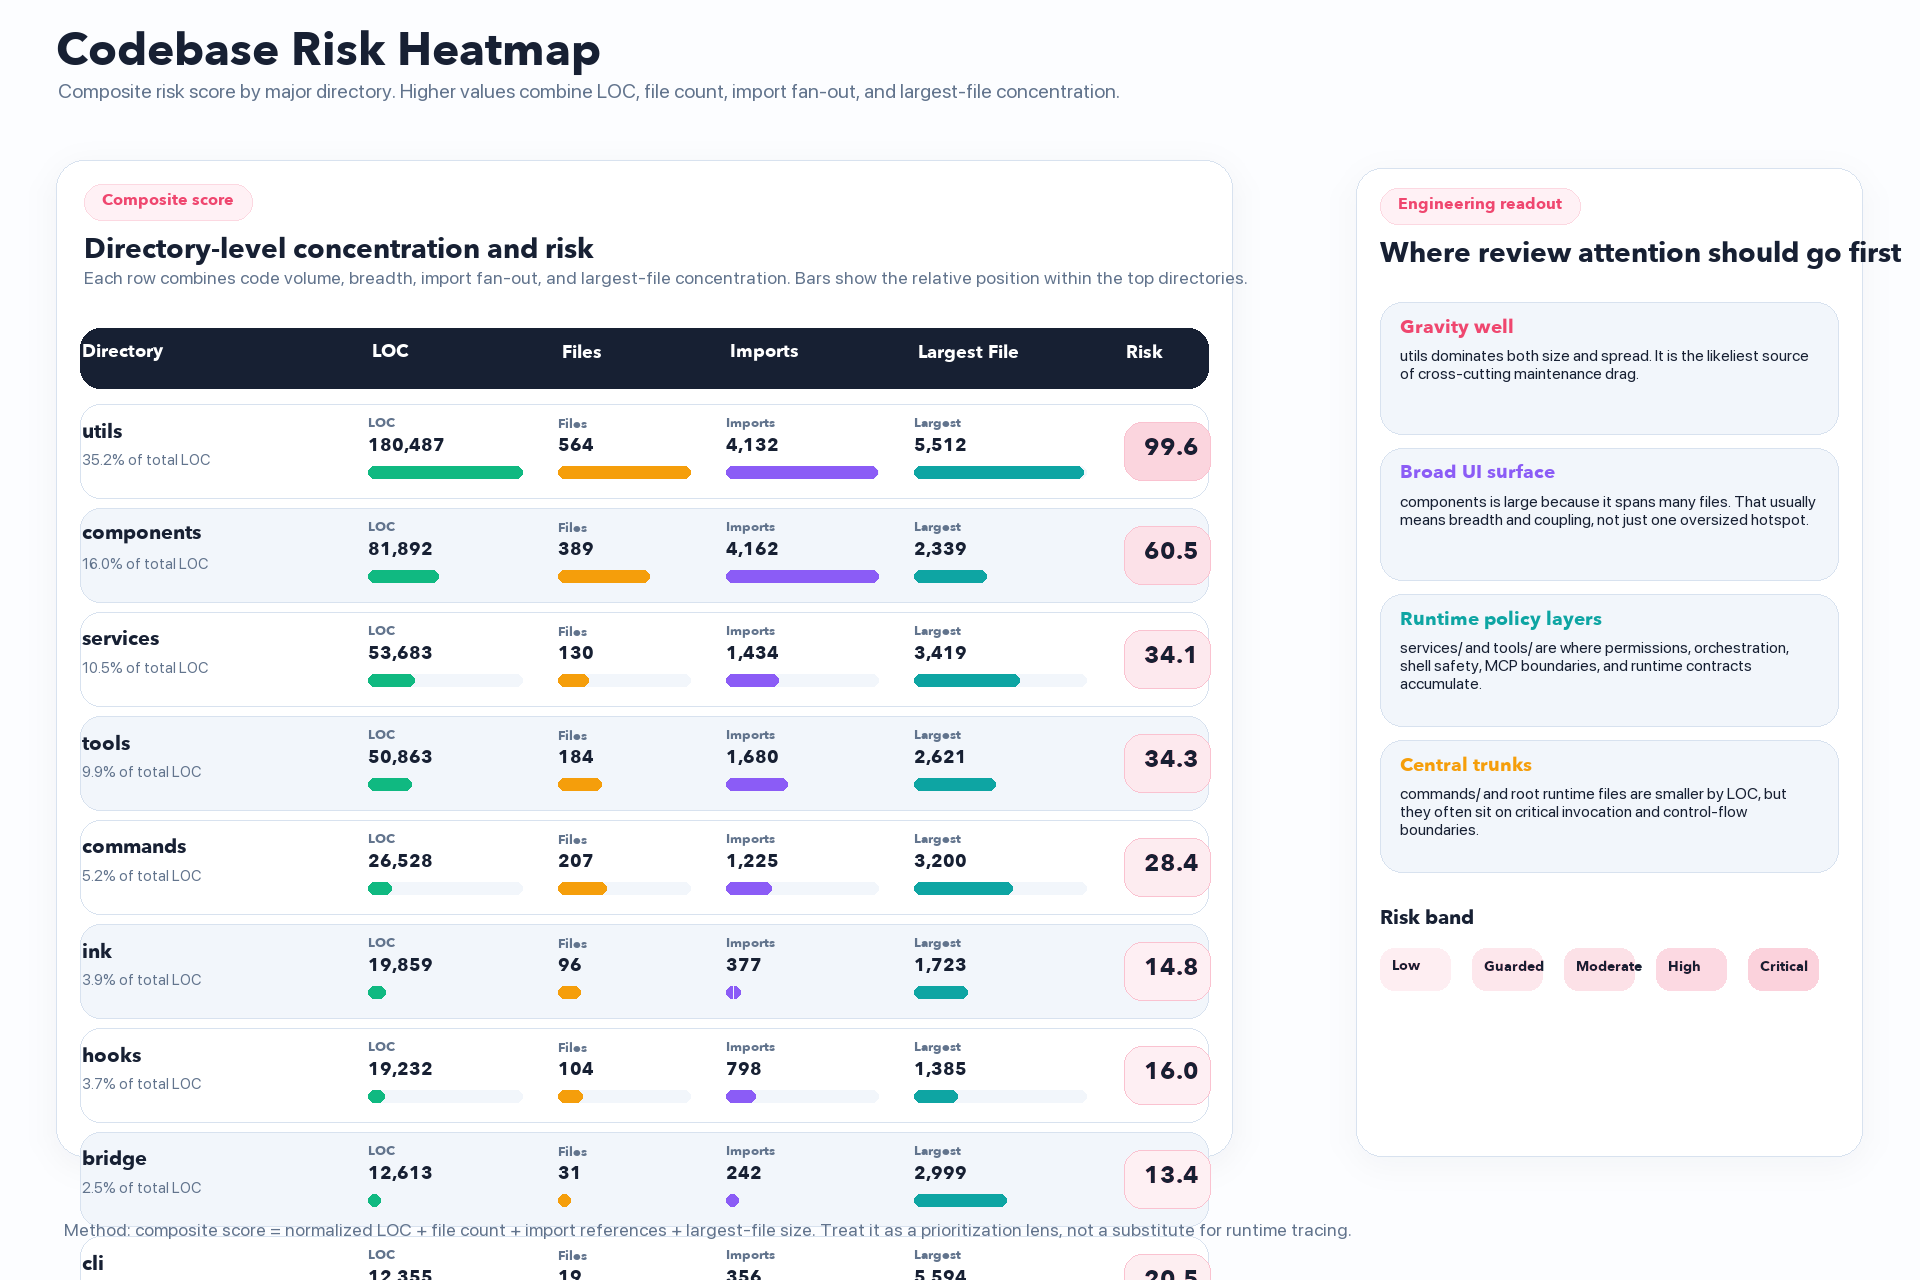
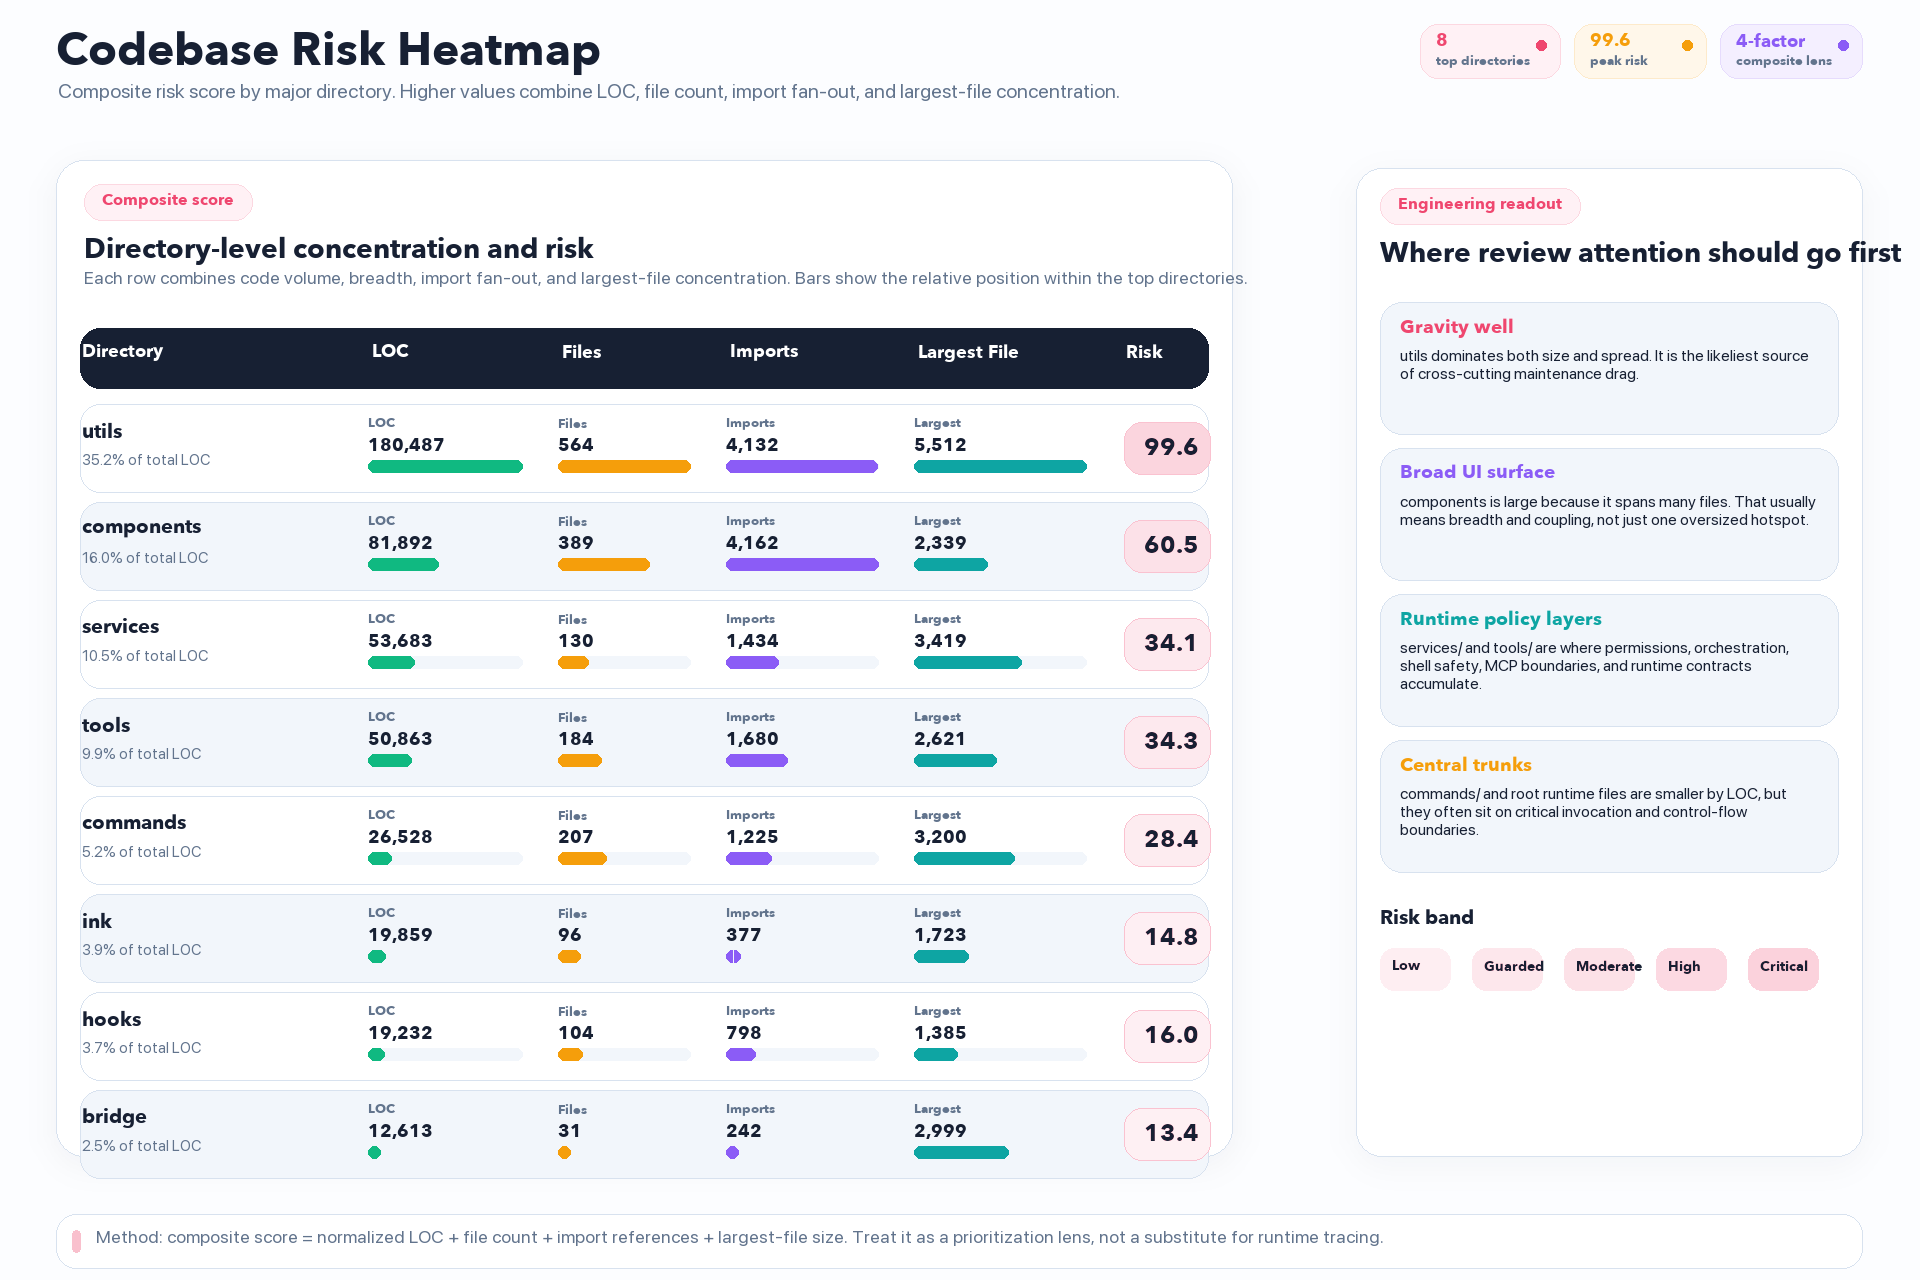
Unify analysis chart visual system

diff --git a/scripts/generate_analysis_suite.py b/scripts/generate_analysis_suite.py
@@ -394,6 +394,47 @@ def draw_kicker(draw: ImageDraw.ImageDraw, xy: tuple[int, int], text: str, accen
     base.draw_text(draw, (xy[0] + padding_x, xy[1] + padding_y - 1), text, use_font, accent)
 
 
+def draw_header_stats(
+    image: Image.Image,
+    stats: list[tuple[str, str, str]],
+    *,
+    top: int = 24,
+    right: int = 1944,
+    gap: int = 14,
+) -> None:
+    draw = ImageDraw.Draw(image)
+    cursor = right
+    for value, label, accent_key in reversed(stats):
+        accent = base.PALETTE[accent_key]
+        fill = accent_fill(accent_key)
+        value_font = base.font(18, "headline")
+        label_font = base.font(13, "headline")
+        value_w, value_h = base.text_size(draw, value, value_font)
+        label_w, label_h = base.text_size(draw, label, label_font)
+        width = max(132, value_w + 46, label_w + 46)
+        rect = (cursor - width, top, cursor, top + 54)
+        base.rounded_box(image, rect, fill=fill, outline=base.with_alpha(accent, 54), width=1, radius=18)
+        draw.rounded_rectangle((rect[2] - 24, rect[1] + 16, rect[2] - 14, rect[1] + 26), radius=5, fill=accent)
+        base.draw_text(draw, (rect[0] + 16, rect[1] + 9), value, value_font, accent)
+        base.draw_text(draw, (rect[0] + 16, rect[1] + 31), label, label_font, base.PALETTE["muted"])
+        cursor -= width + gap
+
+
+def draw_footer_strip(
+    image: Image.Image,
+    text: str,
+    *,
+    rect: tuple[int, int, int, int],
+    accent_key: str = "blue",
+) -> None:
+    accent = base.PALETTE[accent_key]
+    draw = ImageDraw.Draw(image)
+    base.rounded_box(image, rect, fill=base.PALETTE["paper"], outline=base.PALETTE["line"], width=1, radius=20)
+    draw.rounded_rectangle((rect[0] + 16, rect[1] + 16, rect[0] + 24, rect[3] - 16), radius=4, fill=base.with_alpha(accent, 88))
+    font_obj, lines = base.fit_wrapped_font(draw, text, "body", 18, 15, rect[2] - rect[0] - 54, rect[3] - rect[1] - 18, 4, max_lines=3)
+    base.draw_text_lines(draw, (rect[0] + 40, rect[1] + 17), lines, font_obj, base.PALETTE["muted"], 4)
+
+
 def slice_treemap(
     items: list[DirStat],
     rect: tuple[int, int, int, int],
@@ -442,26 +483,13 @@ def render_hotspot_treemap(metrics: CodebaseMetrics) -> Path:
         "Codebase Hotspots Treemap",
         "Directory footprint and oversized-file concentration derived from the analyzed src/ tree.",
     )
-    base.draw_badge(
+    draw_header_stats(
         image,
-        (1534, 34, 1682, 72),
-        f"{metrics.total_files:,} files",
-        base.with_alpha(base.PALETTE["blue"], 22),
-        base.PALETTE["blue"],
-    )
-    base.draw_badge(
-        image,
-        (1696, 34, 1846, 72),
-        f"{metrics.total_loc:,} LOC",
-        base.with_alpha(base.PALETTE["green"], 22),
-        base.PALETTE["green"],
-    )
-    base.draw_badge(
-        image,
-        (1860, 34, 1946, 72),
-        "src/",
-        base.with_alpha(base.PALETTE["purple"], 18),
-        base.PALETTE["purple"],
+        [
+            (f"{metrics.total_files:,}", "source files", "blue"),
+            (f"{metrics.total_loc:,}", "LOC", "green"),
+            ("top 8", "directories", "purple"),
+        ],
     )
 
     treemap_rect = (56, 132, 1348, 1224)
@@ -564,11 +592,12 @@ def render_hotspot_treemap(metrics: CodebaseMetrics) -> Path:
         base.draw_text(draw, (1472, current_y + 31), f"{file_stat.loc:,} LOC · {file_stat.imports} imports", base.font(14), base.PALETTE["muted"])
         current_y += 64
 
-    footer_rect = (56, 1244, 1944, 1300)
-    base.rounded_box(image, footer_rect, fill=base.PALETTE["paper"], outline=base.PALETTE["line"], width=1, radius=20)
-    footer = "Reading: utils/, components/, services/, and tools/ dominate the footprint. The right rail highlights where size concentration turns into likely maintenance drag."
-    footer_font, footer_lines = base.fit_wrapped_font(draw, footer, "body", 18, 16, 1840, 40, 4, max_lines=2)
-    base.draw_text_lines(draw, (80, 1261), footer_lines, footer_font, base.PALETTE["muted"], 4)
+    draw_footer_strip(
+        image,
+        "Reading: utils/, components/, services/, and tools/ dominate the footprint. The right rail highlights where size concentration turns into likely maintenance drag.",
+        rect=(56, 1244, 1944, 1300),
+        accent_key="blue",
+    )
     out_path = OUT_DIR / "codebase-hotspots-treemap.png"
     image.save(out_path)
     return out_path
@@ -583,17 +612,26 @@ def render_risk_heatmap(metrics: CodebaseMetrics) -> Path:
     size = (1920, 1280)
     image = Image.new("RGBA", size, base.PALETTE["canvas_alt"])
     draw = ImageDraw.Draw(image)
+    top_dirs = metrics.top_dirs[:8]
     draw_title(
         draw,
         "Codebase Risk Heatmap",
         "Composite risk score by major directory. Higher values combine LOC, file count, import fan-out, and largest-file concentration.",
     )
-    top_dirs = metrics.top_dirs[:10]
+    draw_header_stats(
+        image,
+        [
+            (str(len(top_dirs)), "top directories", "rose"),
+            (f"{max(item.risk_score for item in top_dirs):.1f}", "peak risk", "orange"),
+            ("4-factor", "composite lens", "purple"),
+        ],
+        right=1862,
+    )
     headers = ["Directory", "LOC", "Files", "Imports", "Largest File", "Risk"]
     widths = [290, 190, 168, 188, 208, 124]
     table_x = 60
     table_y = 168
-    row_h = 94
+    row_h = 88
     table_w = sum(widths)
 
     base.rounded_box(image, (table_x - 4, table_y - 8, table_x + table_w + 4, 1156), fill=base.PALETTE["paper"], outline=base.PALETTE["line"], width=1, radius=28, shadow=True, shadow_alpha=12)
@@ -665,7 +703,12 @@ def render_risk_heatmap(metrics: CodebaseMetrics) -> Path:
         base.rounded_box(image, box, fill=base.with_alpha(accent, 14 + int(48 * ratio)), radius=14)
         base.draw_text(draw, (1392 + idx * 92, 960), label, base.font(14, "headline"), base.PALETTE["ink"])
 
-    base.draw_text(draw, (64, 1224), "Method: composite score = normalized LOC + file count + import references + largest-file size. Treat it as a prioritization lens, not a substitute for runtime tracing.", base.font(18), base.PALETTE["muted"])
+    draw_footer_strip(
+        image,
+        "Method: composite score = normalized LOC + file count + import references + largest-file size. Treat it as a prioritization lens, not a substitute for runtime tracing.",
+        rect=(56, 1214, 1862, 1268),
+        accent_key="rose",
+    )
     out_path = OUT_DIR / "codebase-risk-heatmap.png"
     image.save(out_path)
     return out_path
@@ -712,6 +755,15 @@ def render_tool_permission_matrix() -> Path:
         draw,
         "Tool Permission Matrix",
         "Shared tool orchestration path plus notable extra controls by tool family.",
+    )
+    draw_header_stats(
+        image,
+        [
+            (str(len(TOOL_MATRIX_ROWS)), "tool families", "blue"),
+            ("7", "control columns", "green"),
+            ("1", "shared runtime", "purple"),
+        ],
+        right=1864,
     )
     columns = [
         "Validation",
@@ -767,7 +819,12 @@ def render_tool_permission_matrix() -> Path:
         "Hook awareness shows up across the board because pre/post execution hooks and permission-denied hooks live in the common orchestration spine.",
     )
     base.draw_bullet_list(draw, 84, 1112, 1728, notes, base.PALETTE["blue"], "body", 16, 14)
-    base.draw_text(draw, (60, 1312), "Key sources: src/services/tools/toolExecution.ts, src/services/tools/toolOrchestration.ts, src/utils/permissions/filesystem.ts, src/tools/BashTool/*, src/tools/PowerShellTool/*.", base.font(18), base.PALETTE["muted"])
+    draw_footer_strip(
+        image,
+        "Key sources: src/services/tools/toolExecution.ts, src/services/tools/toolOrchestration.ts, src/utils/permissions/filesystem.ts, src/tools/BashTool/*, and src/tools/PowerShellTool/*.",
+        rect=(56, 1294, 1864, 1348),
+        accent_key="blue",
+    )
     out_path = OUT_DIR / "tool-permission-matrix.png"
     image.save(out_path)
     return out_path
@@ -781,6 +838,15 @@ def render_session_lifecycle() -> Path:
         draw,
         "Session Lifecycle",
         "How transcript persistence, compaction, resume, and task/agent state form the long-lived Claude Code session model.",
+    )
+    draw_header_stats(
+        image,
+        [
+            ("6", "turn phases", "blue"),
+            ("3", "persistent stores", "teal"),
+            ("resume", "session model", "purple"),
+        ],
+        right=1864,
     )
 
     steps = [
@@ -873,6 +939,15 @@ def render_extension_ecosystem(metrics: CodebaseMetrics) -> Path:
         "Extension Ecosystem",
         "How MCP, plugins, skills, hooks, and remote execution wrap around the core Claude Code runtime.",
     )
+    draw_header_stats(
+        image,
+        [
+            ("6", "extension faces", "teal"),
+            (str(metrics.feature_flags), "feature flags", "purple"),
+            ("1", "core runtime", "blue"),
+        ],
+        right=1864,
+    )
 
     draw_kicker(draw, (66, 152), "Three-zone map", "teal")
     base.draw_text(draw, (66, 204), "How the extension surface wraps around the runtime", base.font(30, "headline"), base.PALETTE["ink"])
@@ -935,11 +1010,12 @@ def render_extension_ecosystem(metrics: CodebaseMetrics) -> Path:
         font_obj, lines = base.fit_wrapped_font(draw, subtitle, "body", 17, 14, rect[2] - rect[0] - 60, 82, 4, max_lines=4)
         base.draw_text_lines(draw, (rect[0] + 42, rect[1] + 58), lines, font_obj, base.PALETTE["ink"], 4)
 
-    footer_rect = (56, 1110, 1864, 1208)
-    base.rounded_box(image, footer_rect, fill=base.PALETTE["paper"], outline=base.PALETTE["line"], width=1, radius=24)
-    footer = "Reading: this is not only a CLI. It is a runtime platform with a wide extension surface, where MCP and skills are especially prominent and built-in plugin support looks comparatively early-stage."
-    footer_font, footer_lines = base.fit_wrapped_font(draw, footer, "body", 18, 16, 1760, 60, 4, max_lines=3)
-    base.draw_text_lines(draw, (86, 1136), footer_lines, footer_font, base.PALETTE["muted"], 4)
+    draw_footer_strip(
+        image,
+        "Reading: this is not only a CLI. It is a runtime platform with a wide extension surface, where MCP and skills are especially prominent and built-in plugin support looks comparatively early-stage.",
+        rect=(56, 1110, 1864, 1208),
+        accent_key="teal",
+    )
     out_path = OUT_DIR / "extension-ecosystem.png"
     image.save(out_path)
     return out_path
